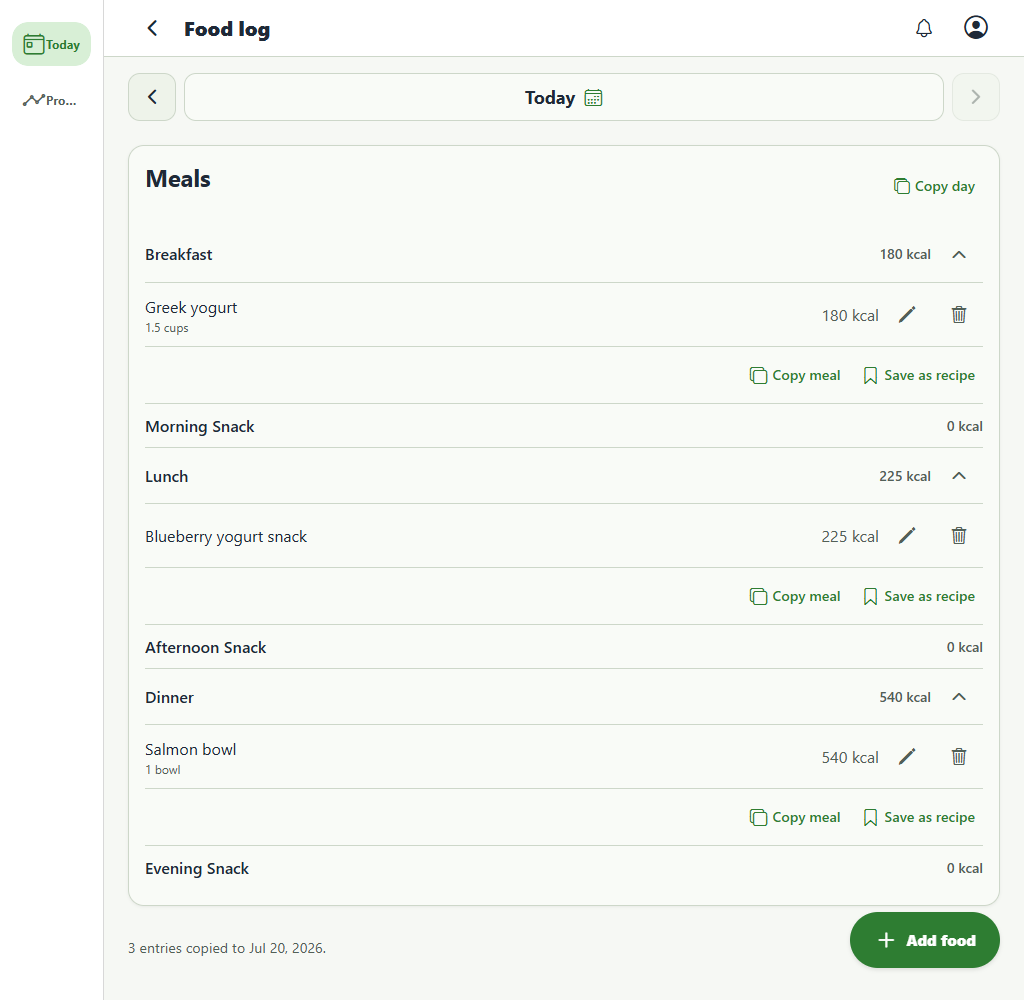
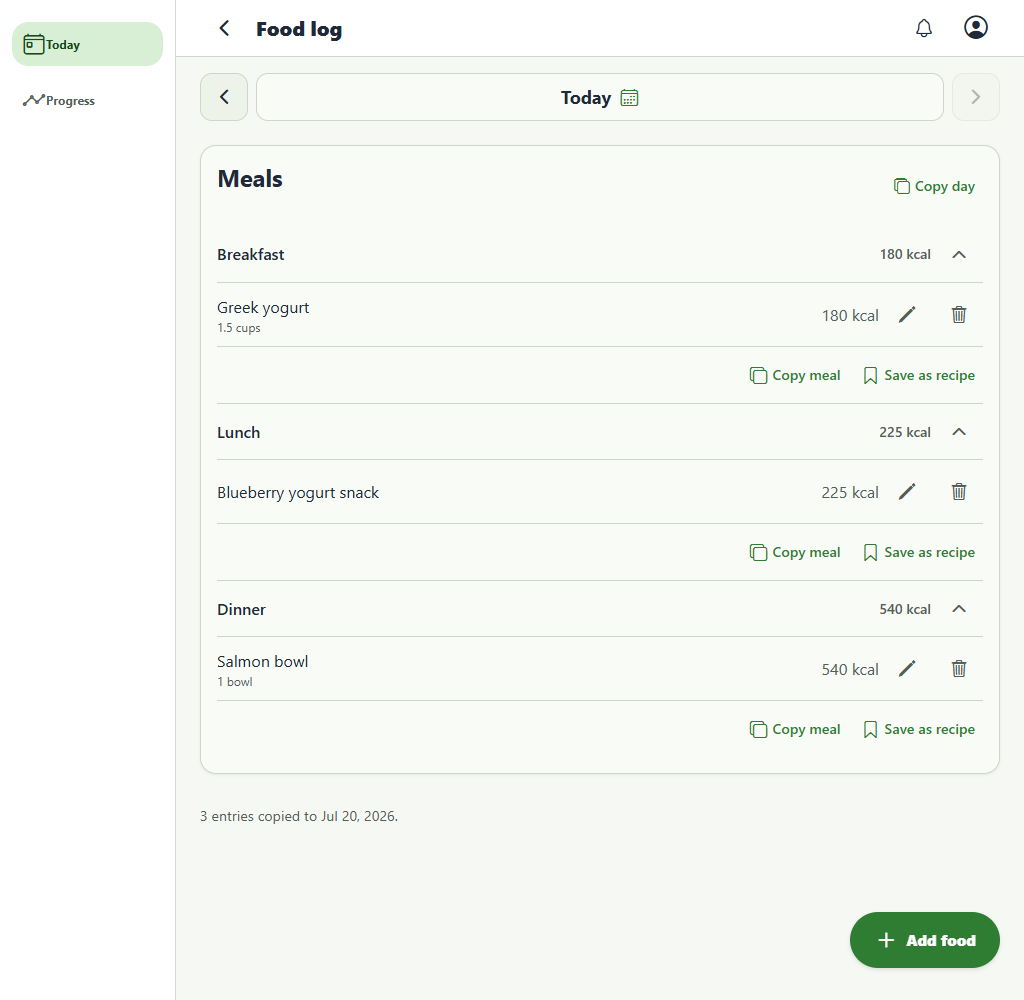
Hide empty meal periods from food log

diff --git a/mobile/src/components/FoodLogTimelineCard.tsx b/mobile/src/components/FoodLogTimelineCard.tsx
@@ -61,14 +61,16 @@ export const FoodLogTimelineCard: React.FC<FoodLogTimelineCardProps> = ({
     const styles = React.useMemo(() => createStyles(theme), [theme]);
 
     const mealGroups = useMemo<MealGroup[]>(() => {
-        return MEAL_OPTIONS.map((meal) => {
-            const mealEntries = entries.filter((entry) => entry.meal_period === meal);
-            return {
-                meal,
-                entries: mealEntries,
-                calories: mealEntries.reduce((total, entry) => total + entry.calories, 0)
-            };
-        });
+        return MEAL_OPTIONS
+            .map((meal) => {
+                const mealEntries = entries.filter((entry) => entry.meal_period === meal);
+                return {
+                    meal,
+                    entries: mealEntries,
+                    calories: mealEntries.reduce((total, entry) => total + entry.calories, 0)
+                };
+            })
+            .filter((group) => group.entries.length > 0);
     }, [entries]);
 
     function toggleMeal(meal: MealPeriod) {

diff --git a/mobile/src/components/FoodLogTimelineCard.test.tsx b/mobile/src/components/FoodLogTimelineCard.test.tsx
@@ -26,8 +26,8 @@ const LEGACY_GRAMS_ENTRY: FoodLogEntry = {
 };
 
 describe('FoodLogTimelineCard', () => {
-    it('leaves the detailed page add-food entry point to its FAB', () => {
-        const { queryByLabelText, getByLabelText, getByText } = render(
+    it('omits unlogged meals and leaves the detailed page add-food entry point to its FAB', () => {
+        const { queryByLabelText, queryByText, getByLabelText, getByText } = render(
             <FoodLogTimelineCard
                 entries={[MORNING_SNACK_ENTRY]}
                 onEditEntry={jest.fn()}
@@ -39,6 +39,9 @@ describe('FoodLogTimelineCard', () => {
         expect(getByLabelText('Collapse Morning Snack')).toBeTruthy();
         expect(getByText('Oatmeal')).toBeTruthy();
         expect(queryByLabelText('Expand Breakfast')).toBeNull();
+        expect(queryByText('Breakfast')).toBeNull();
+        expect(queryByText('Lunch')).toBeNull();
+        expect(queryByText('Dinner')).toBeNull();
     });
 
     it('shows the real snapshot amount after expanding a meal', () => {
